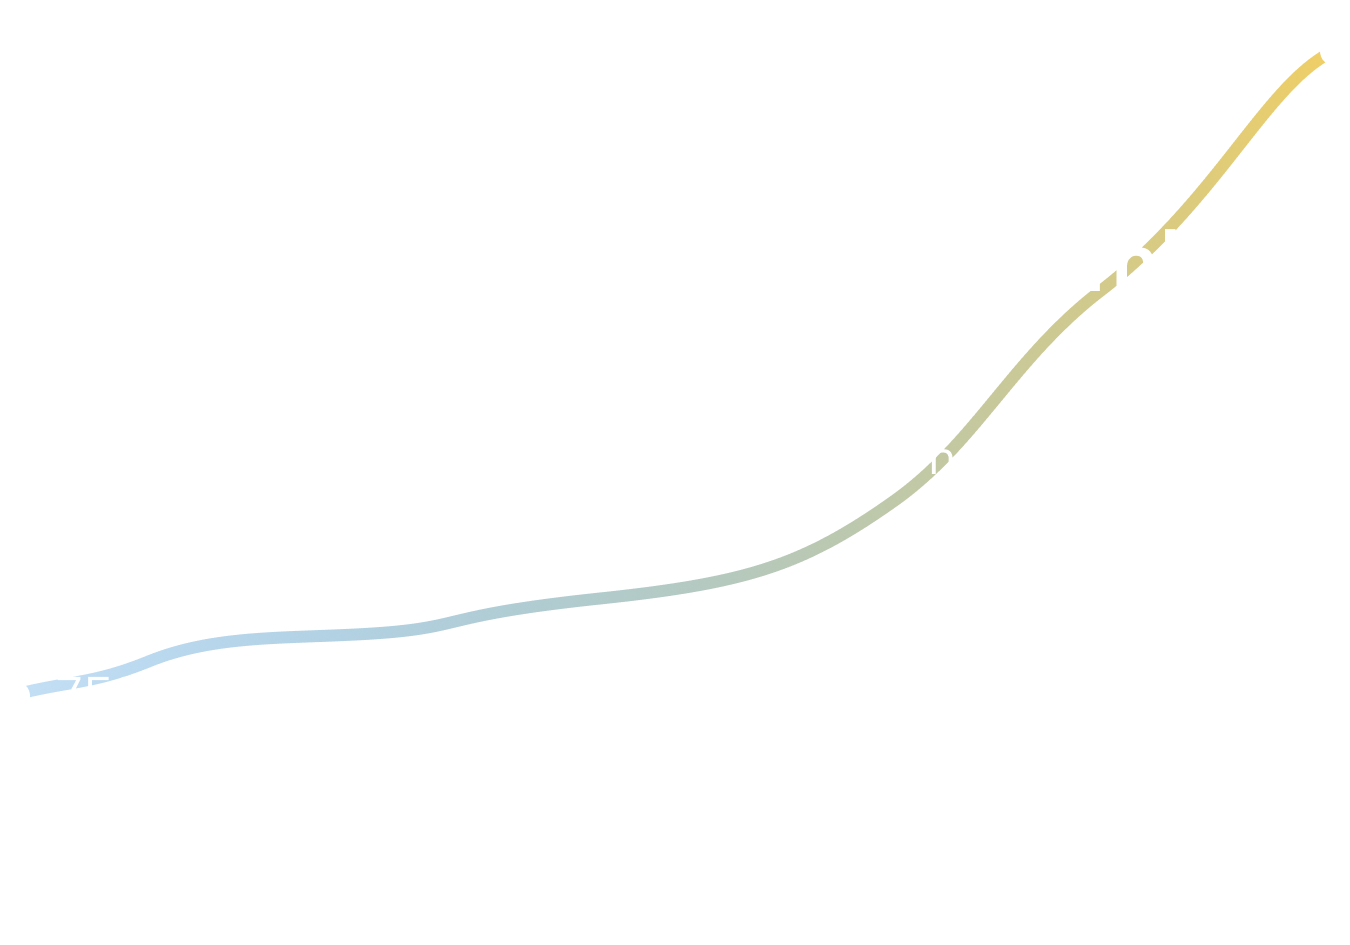
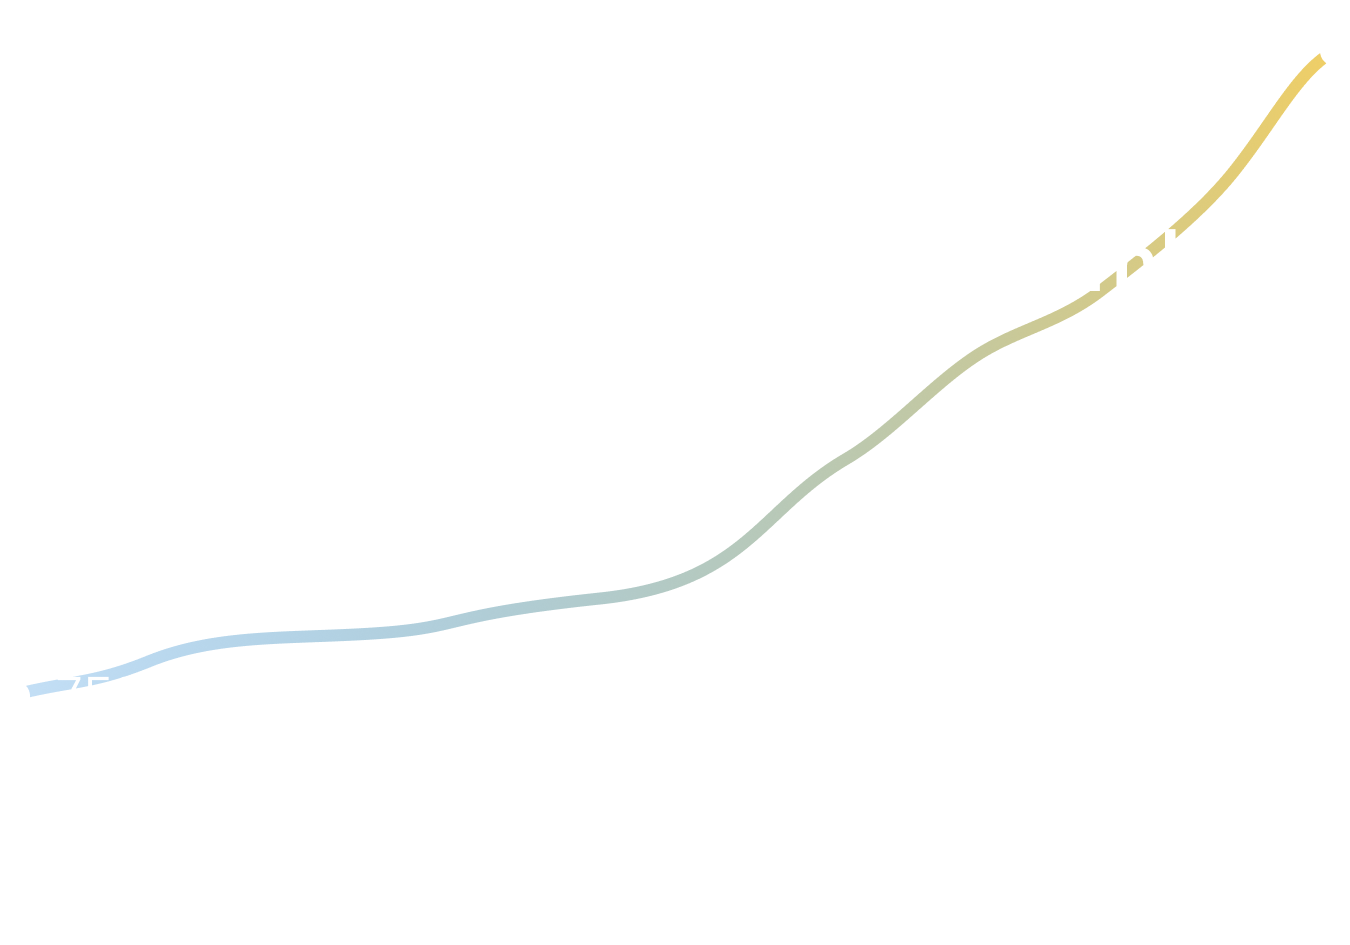
adds chart_minions

diff --git a/src/pages/review.js b/src/pages/review.js
@@ -25,7 +25,7 @@ import HeroProduct from "@site/static/img/review/hero_product.png";
 import HeroNumbers from "@site/static/img/review/hero_numbers.png";
 
 import Integrations from "@site/static/img/review/haus_integrations.png";
-
+import ChartMinions from "@site/static/img/review/chart_minions.png";
 import ChartDaos from "@site/static/img/review/chart_daos-summoned.png";
 import ChartDaosNetwork from "@site/static/img/review/chart_daos-network.png";
 import ChartDaosMembers from "@site/static/img/review/chart_daos-members.png";
@@ -326,7 +326,7 @@ const Review = () => {
                 </p>
               </div>
               <div className="Column--50">
-                <img src={LogoUberHaus} />
+                <img src={ChartMinions} />
               </div>
             </div>
 
@@ -352,7 +352,7 @@ const Review = () => {
                 </p>
               </div>
               <div className="Column--50">
-                <img src={LogoUberHaus} />
+                <img src={ChartMinions} />
               </div>
             </div>
 
